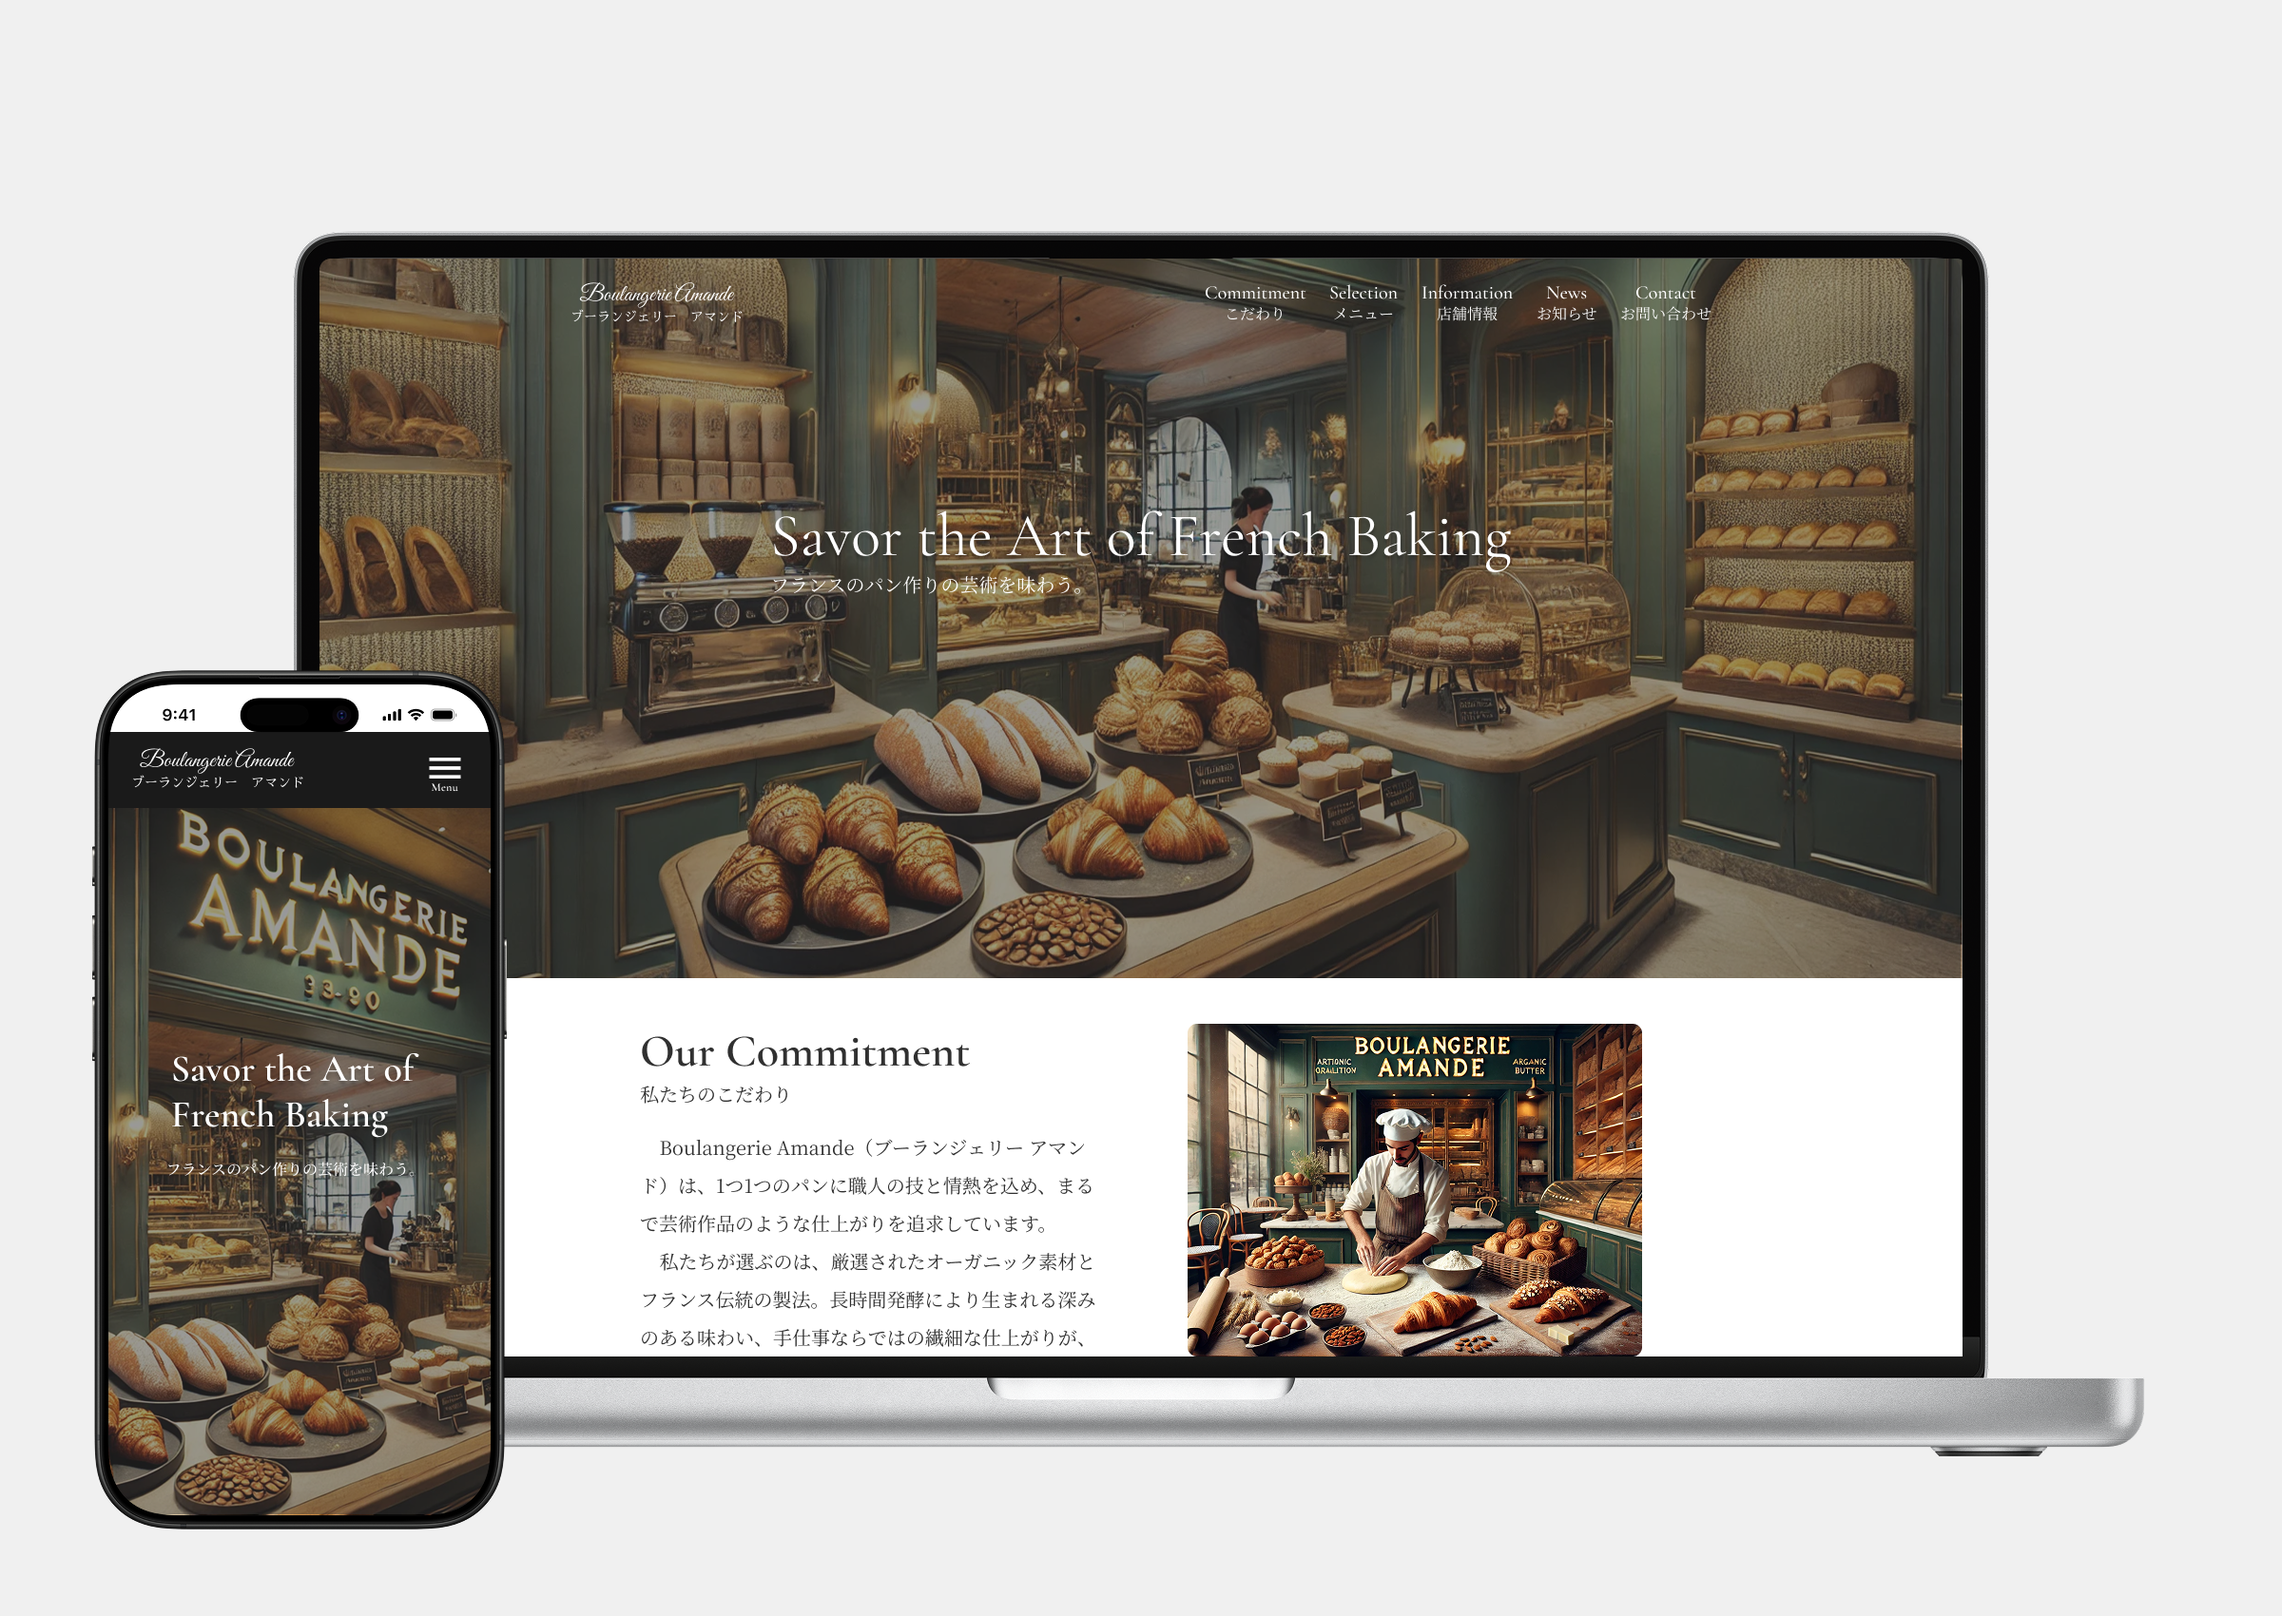
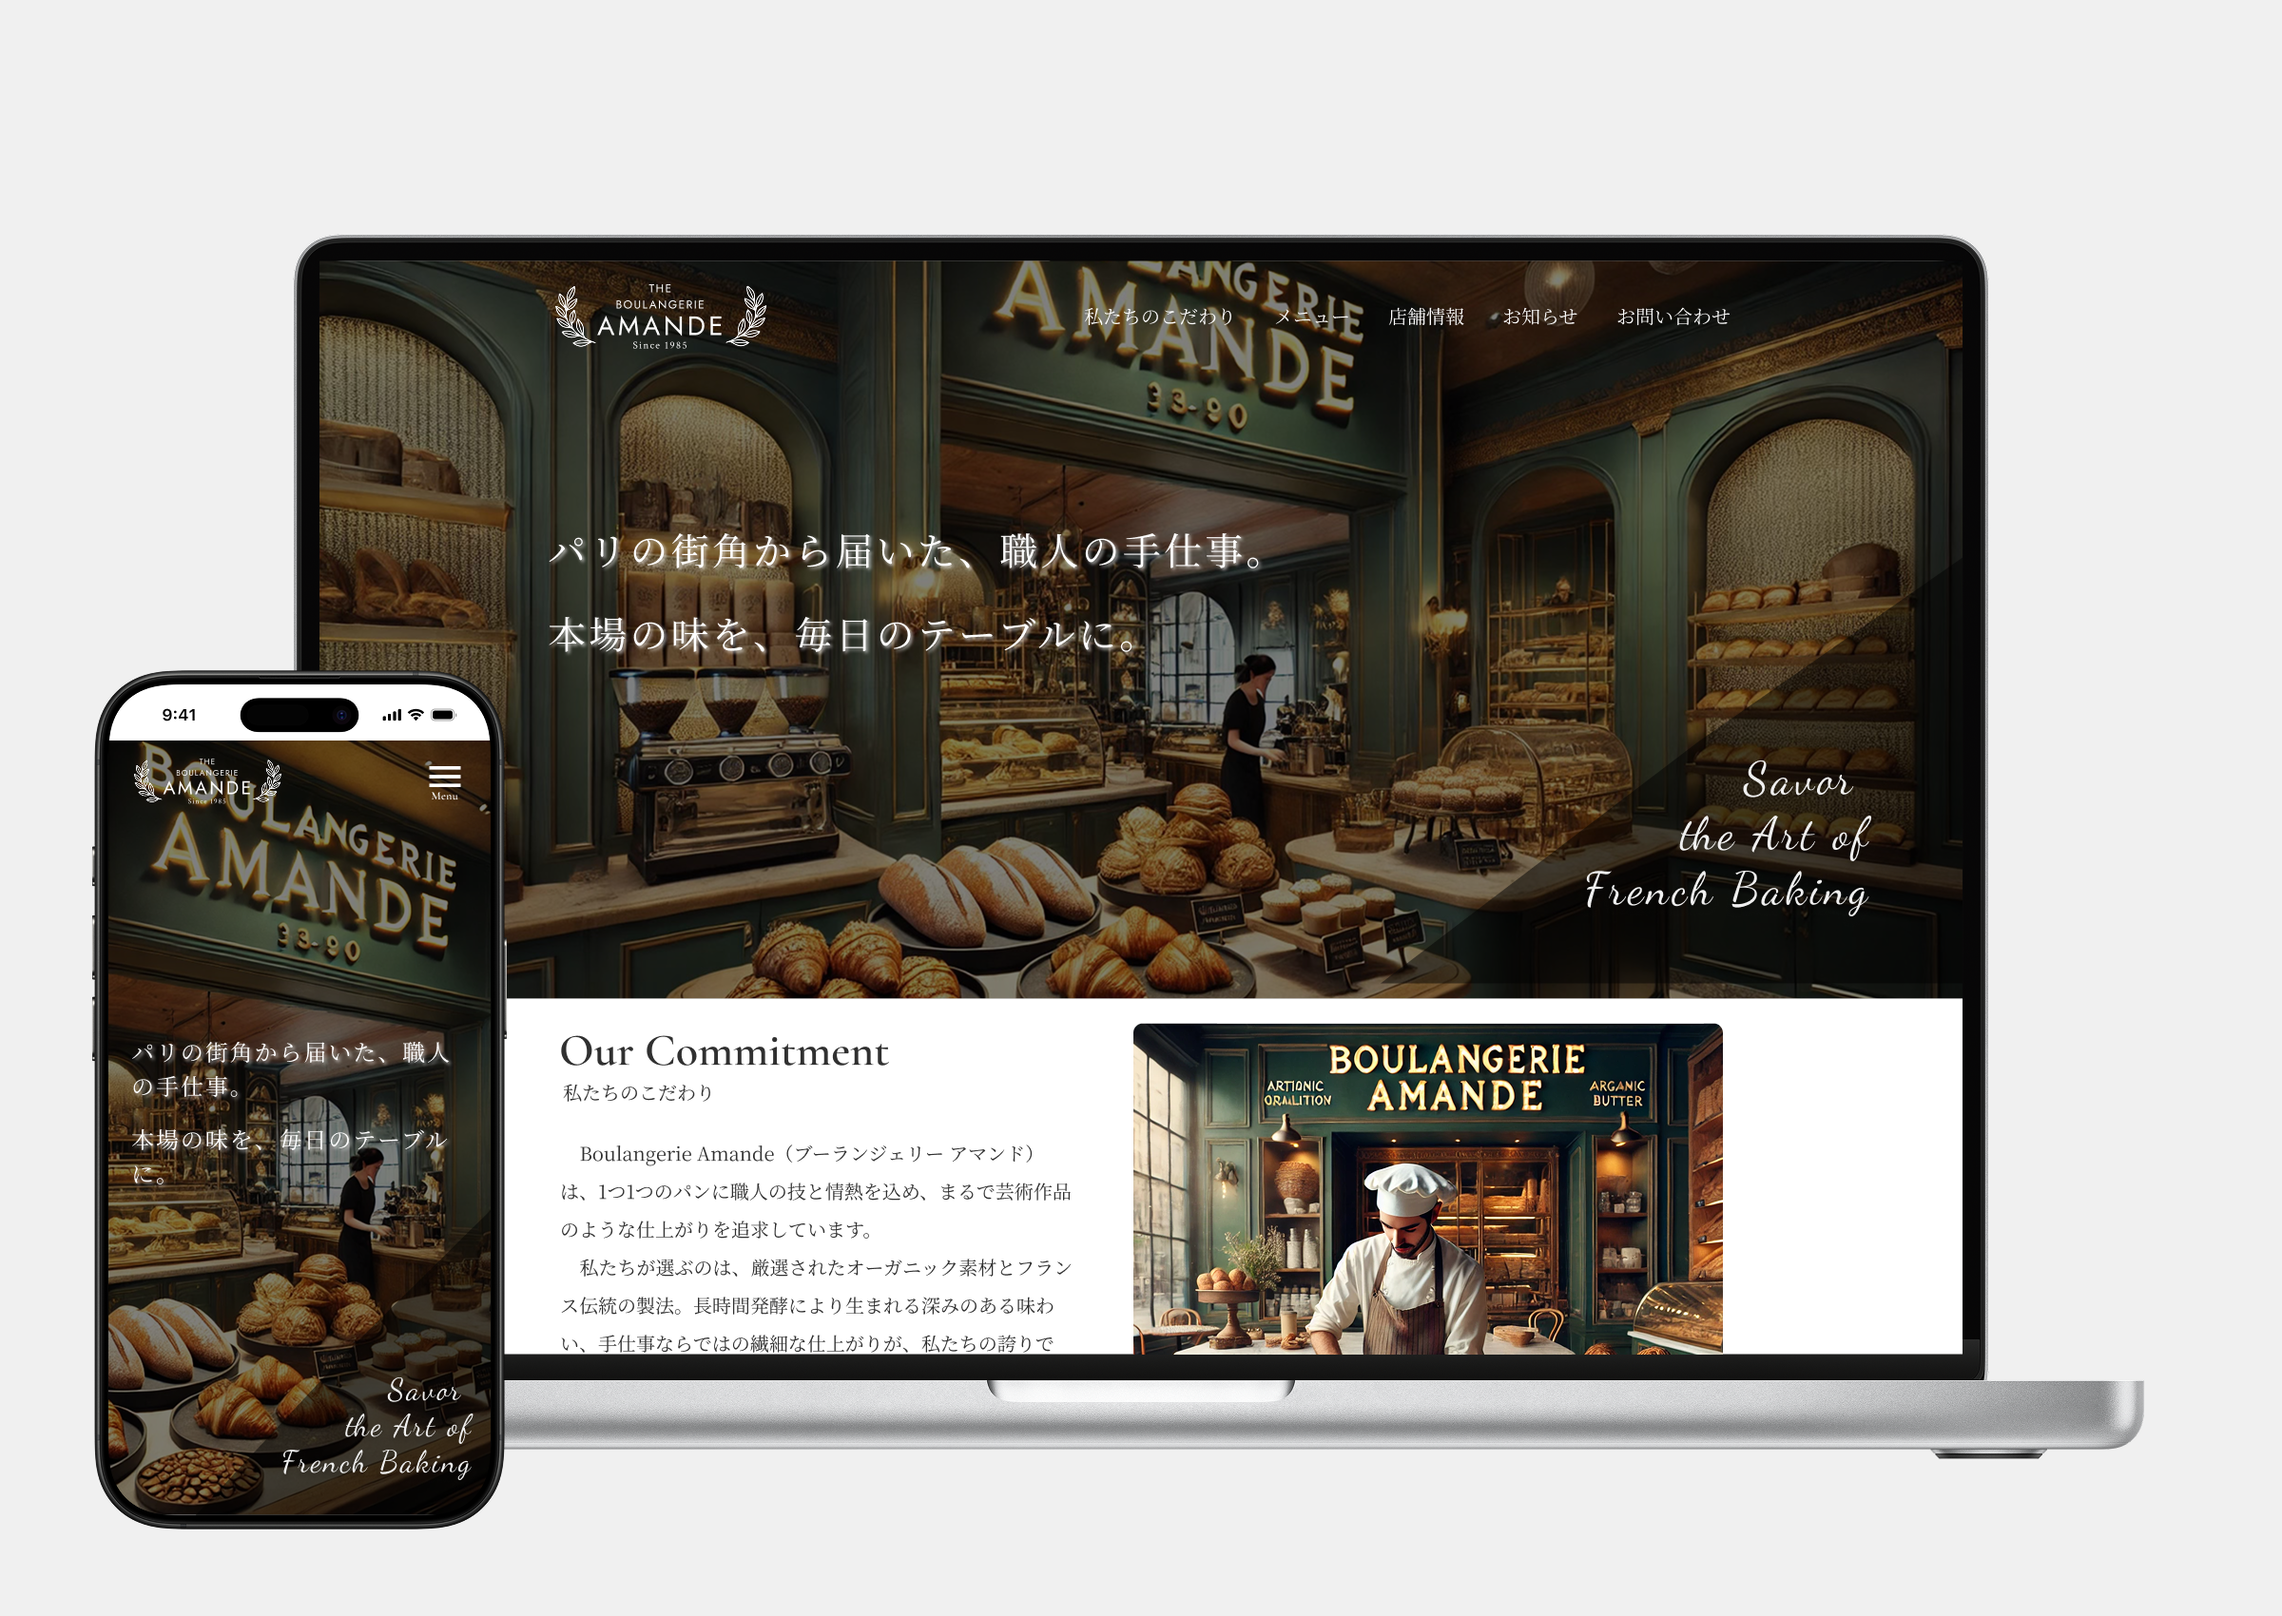
fix BA

diff --git a/index.html b/index.html
@@ -131,7 +131,7 @@
                             <div class="card__text">
                                 <h3 class="card__ttl">Hikora Design コーポレートサイト</h3>
                                 <p class="card__desc">
-                                    DX事業を行う架空の会社のコーポレートサイトのデザインとコーディングを行いました
+                                    DX事業を行う会社のコーポレートサイトのデザインとコーディングを行いました
                                 </p>
                                 <ul class="card__cate-list">
                                     <li class="cate-item-01">Webデザイン</li>
@@ -176,7 +176,7 @@
                             <div class="card__text">
                                 <h3 class="card__ttl">Boulangerie Amande 店舗サイト</h3>
                                 <p class="card__desc">
-                                    架空の本格ベーカリのホームページのデザインとコーディングを行いました
+                                    本格ベーカリーBoulangerie Amandeのホームページのデザインとコーディングを行いました
                                 </p>
                                 <ul class="card__cate-list">
                                     <li class="cate-item-01">Webデザイン</li>
@@ -190,7 +190,7 @@
                             <div class="card__text">
                                 <h3 class="card__ttl">EcoHybe 店舗サイト</h3>
                                 <p class="card__desc">
-                                    架空のリサイクルショップEcoHybeの店舗サイトのデザインとコーディングを行いました
+                                    リサイクルショップEcoHybeの店舗サイトのデザインとコーディングを行いました
                                 </p>
                                 <ul class="card__cate-list">
                                     <li class="cate-item-01">Webデザイン</li>

diff --git a/html/ba.html b/html/ba.html
@@ -53,9 +53,9 @@
                 <ul class="art__list">
                   <li>カテゴリー：店舗サイト</li>
                   <li>制作種別：自主制作</li>
-                  <li>担当領域：Webデザイン、コーディング</li>
+                  <li>担当領域：構成企画、ロゴデザイン、サイト設計、ビジュアルデザイン、コーディング</li>
                   <li>使用ツール：Figma, HTML, CSS(Sass), JavaScript, git, Github</li>
-                  <li>制作期間：1週間</li>
+                  <li>制作期間：3週間</li>
                   <li>リンク：<a href="https://benzy78.github.io/boulangerie-amande/index.html" class="art__link" target="_blank" rel="noopener noreferrer"><img src="../images/icon_open_bl.svg" alt=""> 店舗サイトはこちら</a></li>
                 </ul>
                 <h2 class="art__hed2">サイト制作の目的（架空の設定）</h2>
@@ -102,6 +102,14 @@
                   <li>お問い合わせ</li>
                 </ul>
                 <div class="art__img"><img src="../images/BA_Sitemap.png" alt="サイトマップ画像"></div>
+
+                <h2 class="art__hed2">ロゴデザイン</h2>
+                <div class="art__img"><img src="../images/BA_LogoDescription.png" alt="ロゴデザイン"></div>
+                <p class="art__p mb32">
+                  本ロゴは「上質で伝統あるフレンチベーカリー」というブランドコンセプトを視覚化することを目的に設計しました。
+                  安定感のあるサンセリフ体を中心に、補助的な細身のフォントを組み合わせることで、視認性と上品さのバランスを意識しています。
+                  左右のローレルは職人技や伝統の象徴として配置し、構図はシンメトリーにすることで信頼感と洗練された印象を与えるようにしました。
+                </p>
 
                 <h2 class="art__hed2">UI設計</h2>
                 <h3 class="art__hed3">配色</h3>

diff --git a/html/eh.html b/html/eh.html
@@ -55,7 +55,7 @@
                   <li>制作種別：自主制作</li>
                   <li>担当領域：Webデザイン、コーディング</li>
                   <li>使用ツール：Figma, HTML, CSS(Sass), JavaScript, git, Github</li>
-                  <li>制作期間：1週間</li>
+                  <li>制作期間：2週間</li>
                   <li>リンク：<a href="https://benzy78.github.io/EcoHybe/" class="art__link" target="_blank" rel="noopener noreferrer"><img src="../images/icon_open_bl.svg" alt=""> 店舗サイトはこちら</a></li>
                 </ul>
                 <h2 class="art__hed2">サイト制作の目的（架空の設定）</h2>

diff --git a/html/solp.html b/html/solp.html
@@ -55,7 +55,7 @@
                   <li>制作種別：自主制作</li>
                   <li>担当領域：Webデザイン、コーディング</li>
                   <li>使用ツール：Figma, HTML, CSS(Sass), JavaScript, git, Github</li>
-                  <li>制作期間：2週間</li>
+                  <li>制作期間：3週間</li>
                   <li>リンク：<a href="https://benzy78.github.io/SmartOrdee/index.html" class="art__link" target="_blank" rel="noopener noreferrer"><img src="../images/icon_open_bl.svg" alt=""> SmartOrdee LPはこちら</a></li>
                 </ul>
                 <h2 class="art__hed2">サイト制作の目的</h2>

diff --git a/html/hd.html b/html/hd.html
@@ -55,7 +55,7 @@
                   <li>制作種別：自主制作</li>
                   <li>担当領域：Webデザイン、コーディング</li>
                   <li>使用ツール：Figma, HTML, CSS(Sass), JavaScript, git, Github</li>
-                  <li>制作期間：1週間</li>
+                  <li>制作期間：3週間</li>
                   <li>リンク：<a href="https://benzy78.github.io/HikoraDesign-New/" class="art__link" target="_blank" rel="noopener noreferrer"><img src="../images/icon_open_bl.svg" alt=""> コーポレートサイトはこちら</a></li>
                 </ul>
 
